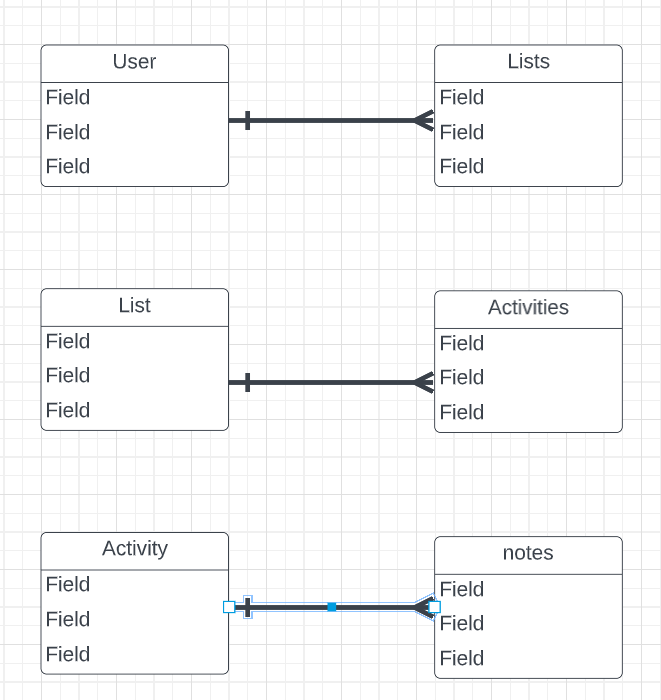
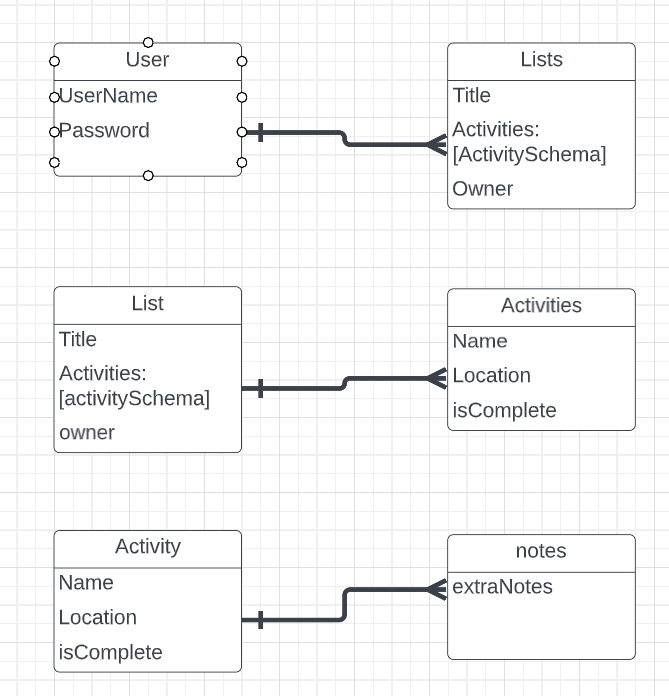
update

diff --git a/README.md b/README.md
@@ -37,9 +37,9 @@
 
 3. Activites
 **Fields**
+>name,
 >location,
->description
-
+> isComplete
 
 
 ![alt text](images/ERD.png)
